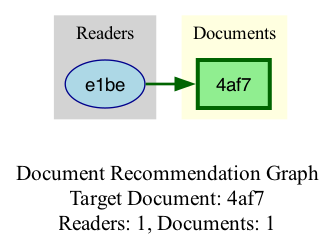
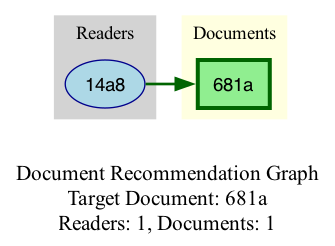
made changes to task 3a histogram to display top 10

Changed region(s): [[0.209, 0.7683, 0.806, 0.8537], [0.2388, 0.313, 0.3881, 0.3699], [0.6269, 0.313, 0.7761, 0.3699]]

diff --git a/cw2.py b/cw2.py
@@ -33,25 +33,6 @@ def main(): # main function that parses arguments and calls appropriate task scr
     parser = argparse.ArgumentParser(
         description='Unified interface for Document Tracker Analysis (MH,HM,SM)',
         formatter_class=argparse.RawDescriptionHelpFormatter,
-        epilog="""
-Available Tasks:
-  2a - Country views histogram
-  2b - Continent views histogram  
-  3a - Distinct user agents analysis
-  3b - Browser distribution analysis
-  4  - Top readers by reading time
-  5d - Also likes recommendations
-  6  - Graph visualization
-  7  - GUI application
-
-Examples:
-  python3 cw2.py -t 2a -f data.json -d *input a document*
-  python3 cw2.py -t 3b -f data.json
-  python3 cw2.py -t 4 -f data.json
-  python3 cw2.py -t 5d -f data.json -d *input a document* -u *input a user id*
-  python3 cw2.py -t 6 -f data.json -d *input a document*
-  python3 cw2.py -t 7
-        """
     )
     
     # Add arguments

diff --git a/browsers3.py b/browsers3.py
@@ -121,7 +121,7 @@ class BrowserAnalyzer:
             return
 
         # Sort items by count descending
-        items = data_counter.most_common()
+        items = data_counter.most_common(10)
 
         labels = [item[0] for item in items]
         values = [item[1] for item in items]
@@ -188,11 +188,6 @@ def main():
     parser = argparse.ArgumentParser(
         description='Analyze browser usage from event data',
         formatter_class=argparse.RawDescriptionHelpFormatter,
-        epilog="""
-Examples:
-  python3 3browsers.py -f data.json -t 3a  # Full user-agent analysis
-  python3 3browsers.py -f data.json -t 3b  # Simplified browser analysis
-        """
     )
     
     # Add arguments
